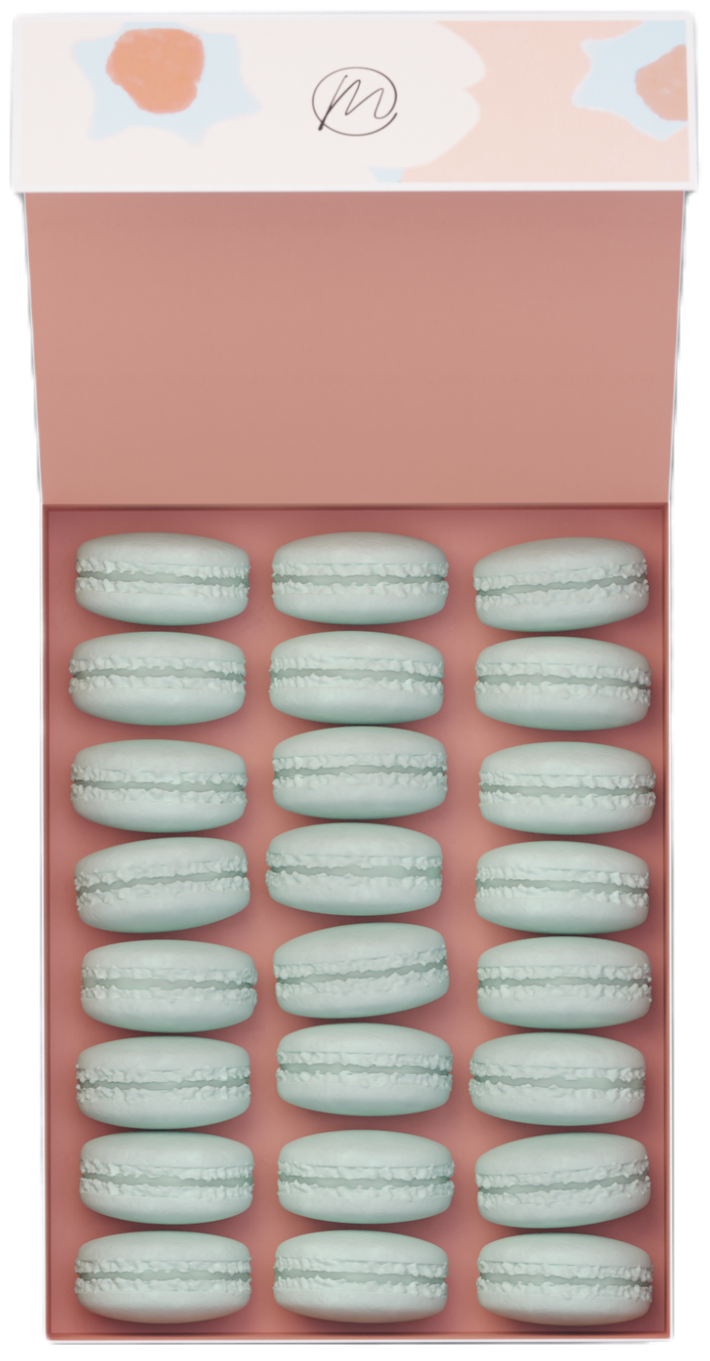
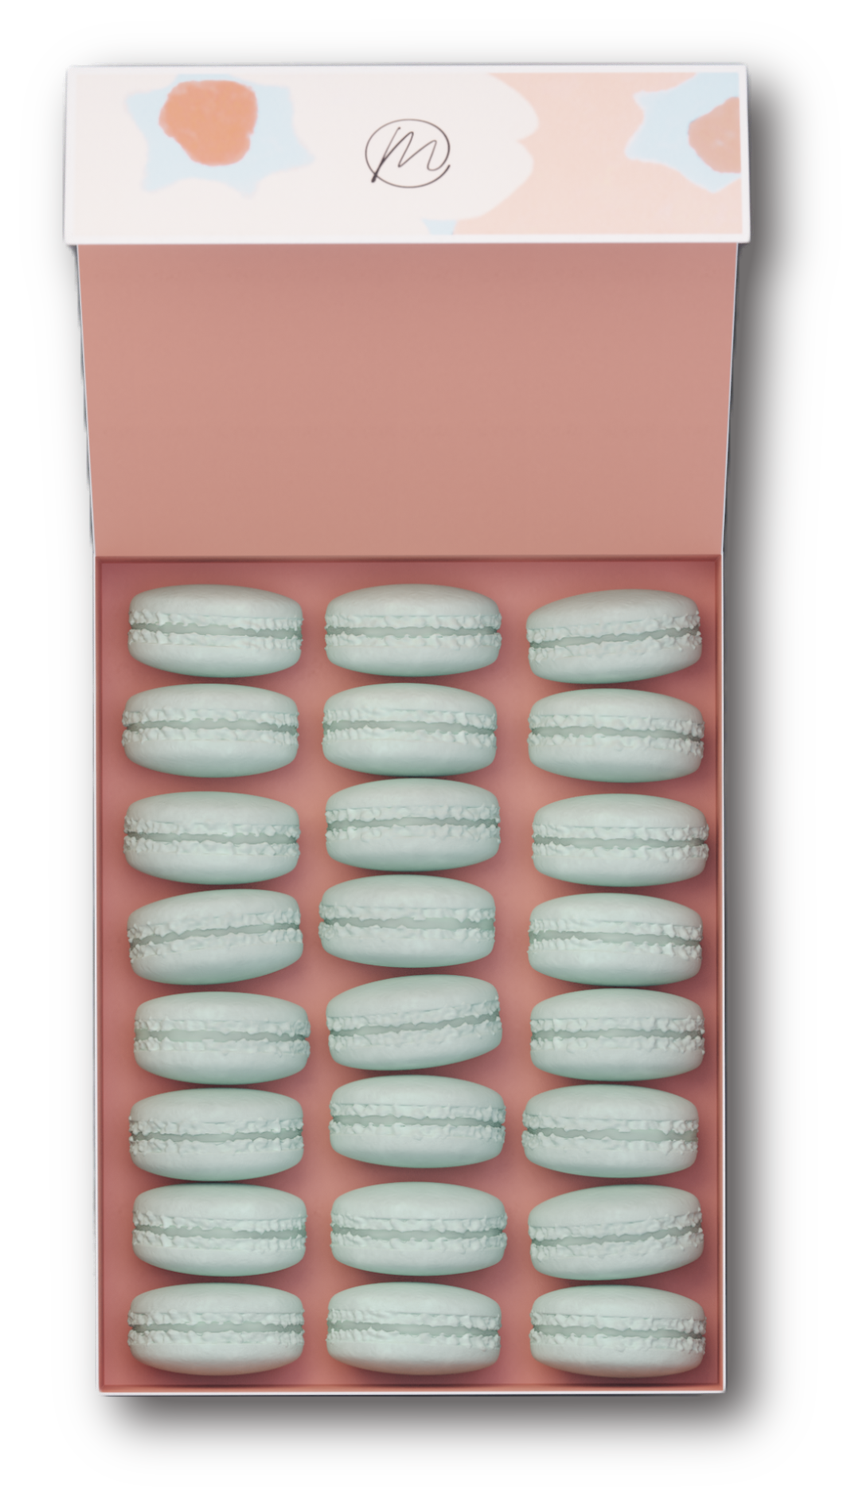
refactor: minor updates

diff --git a/index.html b/index.html
@@ -469,23 +469,11 @@ możesz kupić je w całości, skonfigurować smaki i dodaj dedykowany nadruk
                 </ul>
             
                 <a class="uk-position-center-left-out uk-position-small" href="#" uk-slideshow-item="previous">
-                  <svg xmlns="http://www.w3.org/2000/svg" width="35.223" height="28.556" viewBox="0 0 35.223 28.556">
-                    <g id="Group_220" data-name="Group 220" transform="translate(359.784 86.675) rotate(180)">
-                      <line id="Line_11" data-name="Line 11" x2="34.002" transform="translate(324.562 72.397)" fill="none" stroke="#86b6c7" stroke-miterlimit="10" stroke-width="1.726"/>
-                      <path id="Path_15" data-name="Path 15" d="M350.442,58.729,364.11,72.4,350.442,86.065" transform="translate(-5.546)" fill="none" stroke="#86b6c7" stroke-miterlimit="10" stroke-width="1.726"/>
-                    </g>
-                  </svg>
+                  <img src="icons/arrow-previous_blue.svg" alt="">
                 </a>
                 <a class="uk-position-center-right-out uk-position-small" href="#" uk-slideshow-item="next">
-                  <svg xmlns="http://www.w3.org/2000/svg" width="35.223" height="28.556" viewBox="0 0 35.223 28.556">
-                    <g id="Group_220" data-name="Group 220" transform="translate(-324.562 -58.119)">
-                      <line id="Line_11" data-name="Line 11" x2="34.002" transform="translate(324.562 72.397)" fill="none" stroke="#86b6c7" stroke-miterlimit="10" stroke-width="1.726"/>
-                      <path id="Path_15" data-name="Path 15" d="M350.442,58.729,364.11,72.4,350.442,86.065" transform="translate(-5.546)" fill="none" stroke="#86b6c7" stroke-miterlimit="10" stroke-width="1.726"/>
-                    </g>
-                  </svg>
-                  
+                  <img src="icons/arrow-next_blue.svg" alt="">
                 </a>
-            
             </div>
             </div>
             <a class="reason__button" href="">dowiedz się więcej</a>

diff --git a/style/style.css b/style/style.css
@@ -679,19 +679,8 @@ a[uk-slider-item]::before {
   grid-area: box;
 }
 
-.box__box::before {
-  content: '';
-  position: absolute;
-  display: block;
-  width: 300px;
-  height: 600px;
-  box-shadow: 0 0 40px 20px #000;
-  z-index: 0;
-}
-
 .box__box img {
   width: 60%;
-  z-index: 1;
 }
 
 .box__button {
@@ -794,15 +783,15 @@ a[uk-slider-item]::before {
   align-items: center;
 }
 
-.reason img:nth-child(1) {
-  width: 20%;
+.reason > img:nth-child(1) {
+  width: 25%;
   position: absolute;
   bottom: -100px;
   left: 0;
 }
 
-.reason img:nth-child(2) {
-  width: 20%;
+.reason > img:nth-child(2) {
+  width: 25%;
   position: absolute;
   top: -100px;
   right: 0;
@@ -839,12 +828,22 @@ a[uk-slider-item]::before {
   color: #000;
 }
 
+.reason h3 {
+  max-width: 200px;
+}
+
 .reason__slider p {
   font: thin 16px/22px var(--contentFont);
   letter-spacing: 0.1em;
   text-transform: uppercase;
   text-align: center;
   color: #000;
+}
+
+.reason__slider li {
+  display: flex;
+  flex-direction: column;
+  justify-content: center;
 }
 
 .reason__button {
